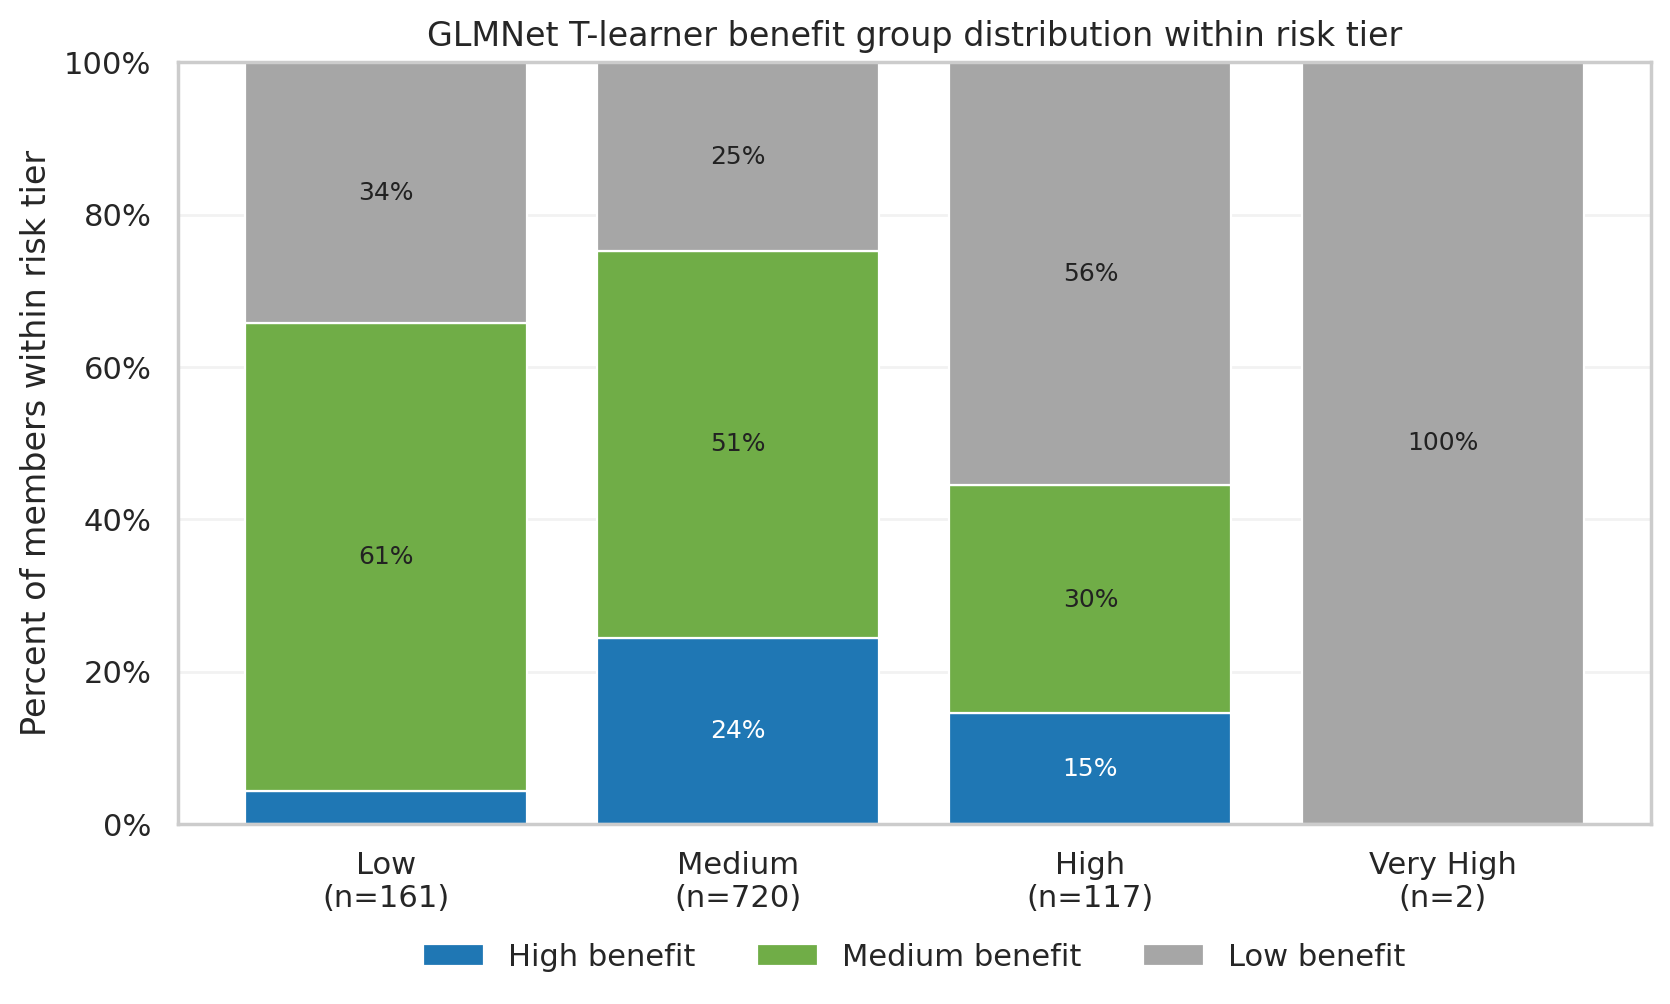
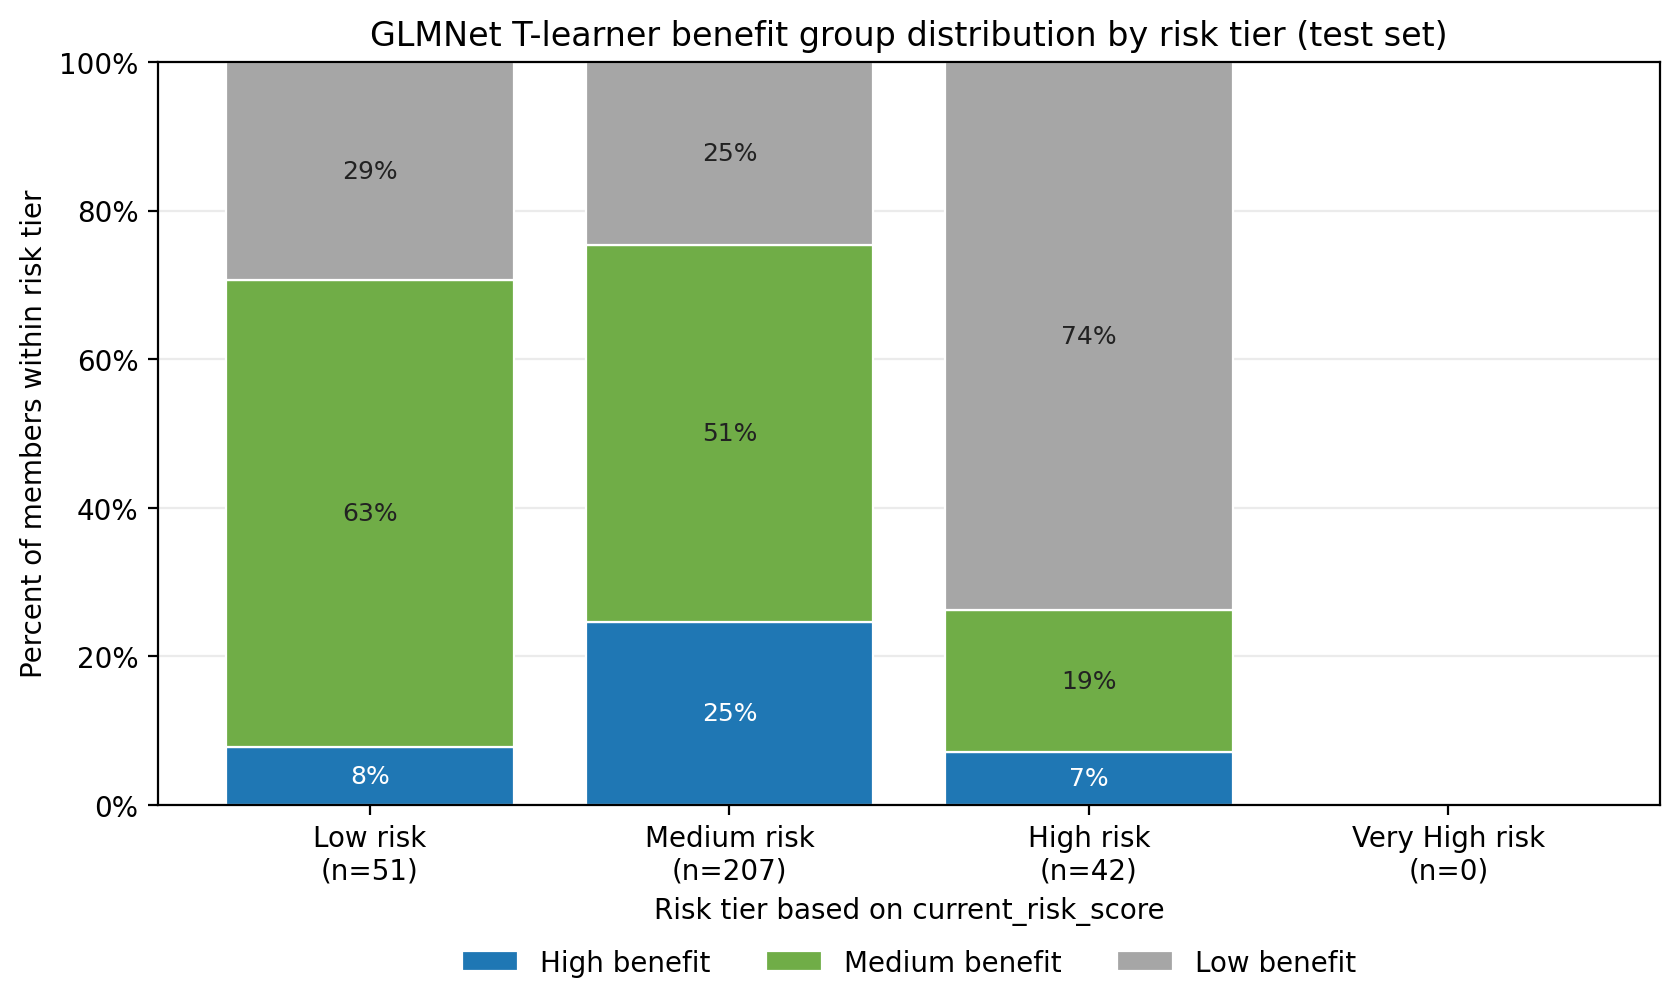
d

diff --git a/PRISM_Intervention_Benefit_Modeling_README.md b/PRISM_Intervention_Benefit_Modeling_README.md
@@ -378,7 +378,7 @@ Risk tiers are based on `current_risk_score`: Low `<35`, Medium `35` to `<55`, H
 | ![GLMNet T-learner risk tier by benefit group](Outputs/Uplift/Python/T-Learner/GLMNet/dashboard_tlearner_risk_tier_by_benefit_group.png) | ![GLMNet X-learner risk tier by benefit group](Outputs/Uplift/Python/X-Learner/GLMNet/dashboard_xlearner_risk_tier_by_benefit_group.png) |
 <!-- AUTO_CHART:risk_tier_by_benefit_group END -->
 
-In the T-learner output, High and Very High risk members are not automatically high benefit; many fall into the low-benefit group. In the X-learner test output, a larger share of High risk members are placed in the high-benefit group. The X-learner chart is based on the held-out test output, so no Very High members appear in that panel for this run. This framework difference is useful because it shows why Task 5 compares T-learner and X-learner rankings side by side instead of assuming one risk-to-benefit relationship.
+Both panels are based on the same held-out test members. In the T-learner output, High risk members are not automatically high benefit; many fall into the low-benefit group. In the X-learner output, a larger share of High risk members are placed in the high-benefit group. No Very High members appear in the held-out test set for this run. This framework difference is useful because it shows why Task 5 compares T-learner and X-learner rankings side by side instead of assuming one risk-to-benefit relationship.
 
 <!-- AUTO_CHART:glmnet_predicted_treated_vs_control START -->
 ![GLMNet predicted ED risk if treated versus control](Outputs/Uplift/Python/T-Learner/GLMNet/dashboard_predicted_treated_vs_control.png)
